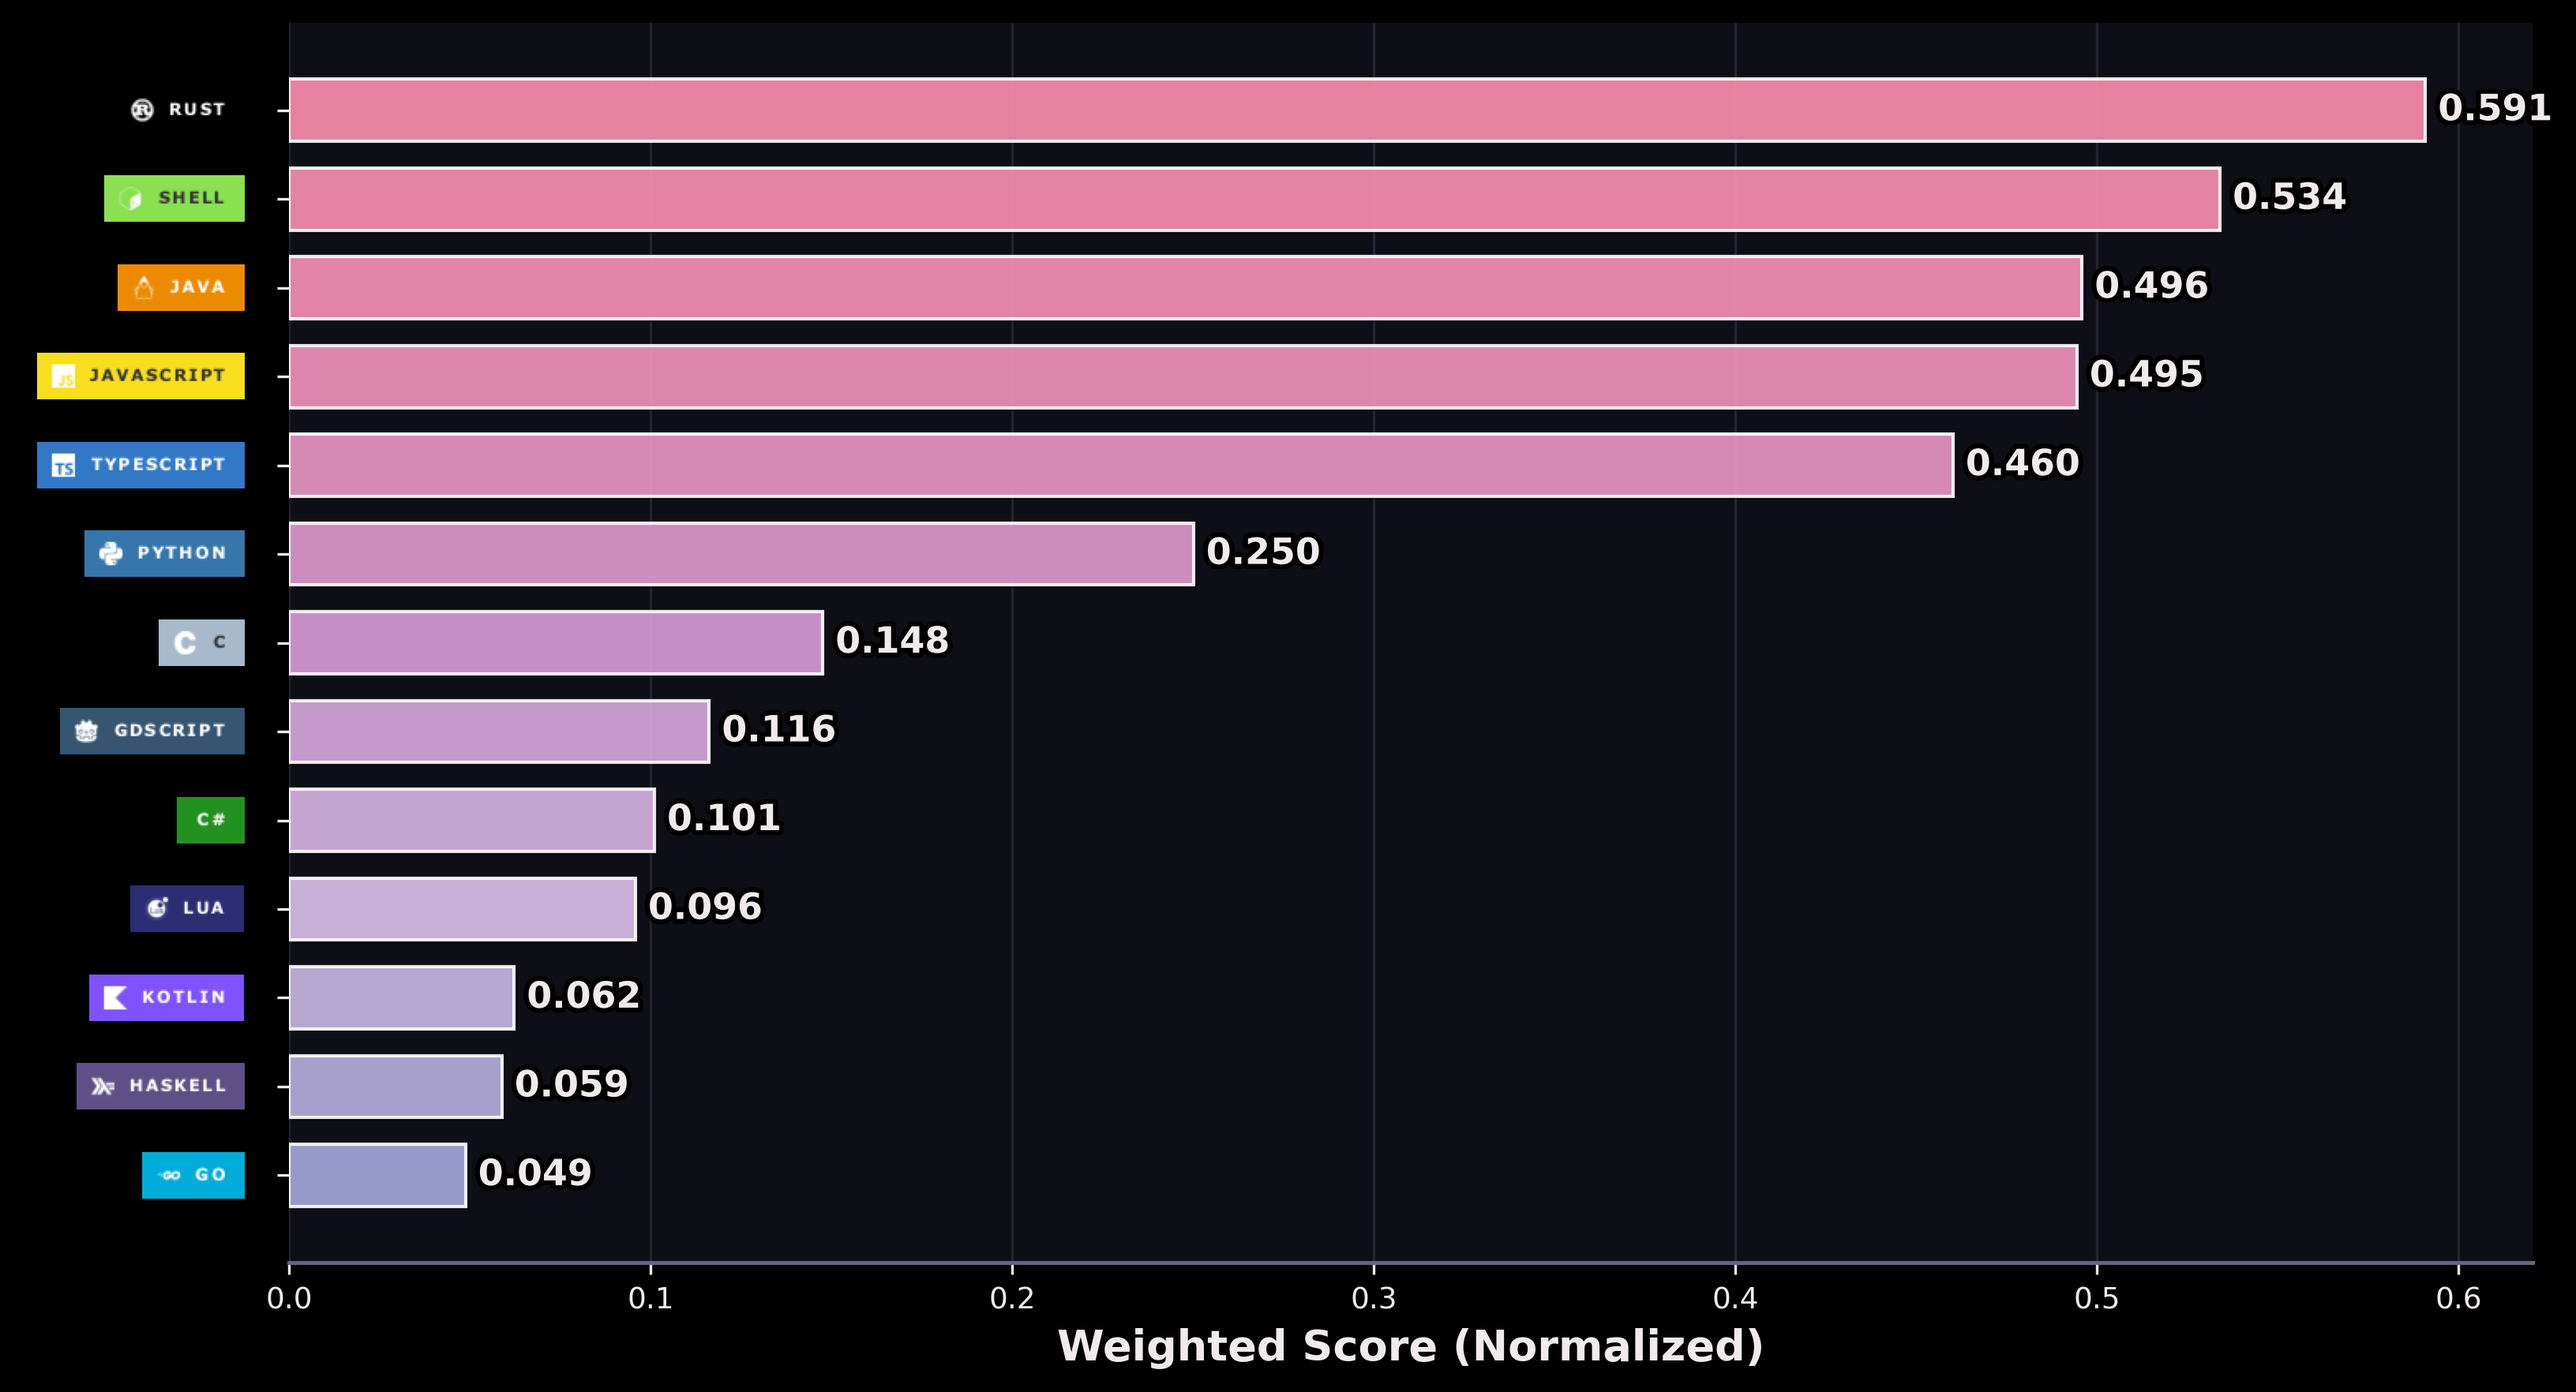
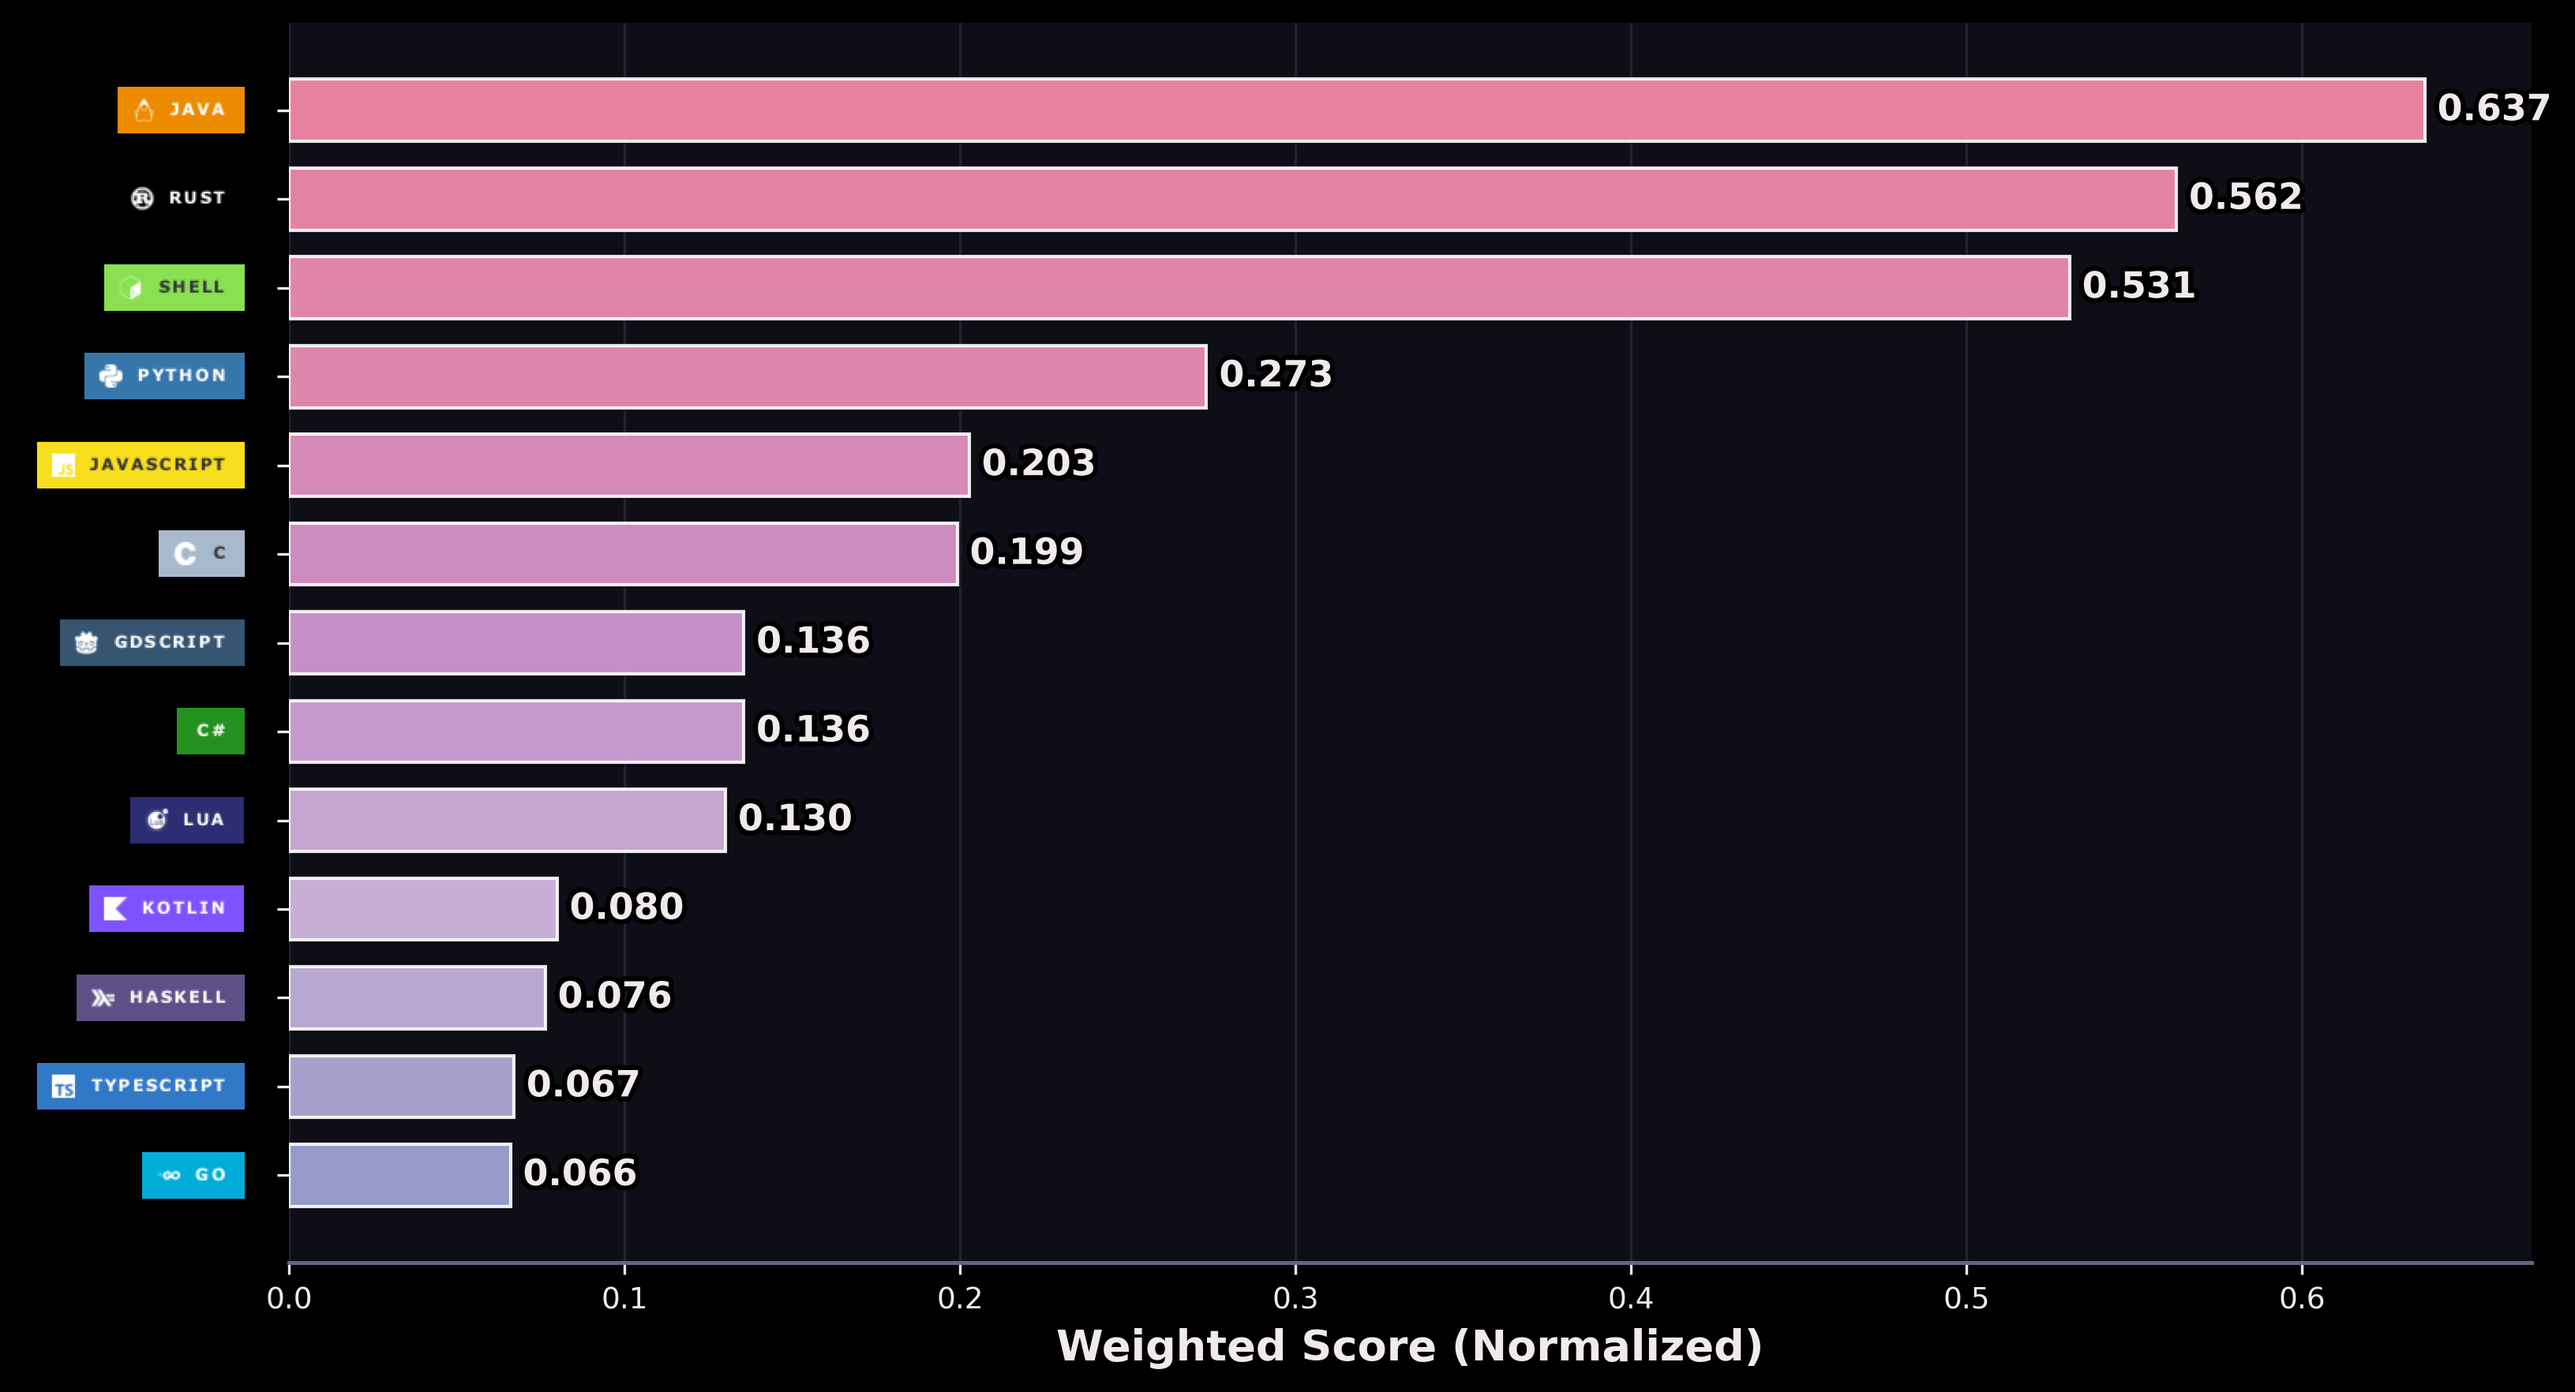
Update language statistics

diff --git a/README.md b/README.md
@@ -26,15 +26,15 @@
 
 |    | Language | Lines of code | Share |
 |:--:|:---------|----------:|:------|
-| 🥇 | Rust | 45.1K | 🌸🌸🌸🌸🌸🌸🌸🌸🌸🌸 37.9% |
-| 🥈 | TypeScript | 29.2K | 🌸🌸🌸🌸🌸🌸⬜⬜⬜⬜ 24.5% |
-| 🥉 | JavaScript | 15.9K | 🌸🌸🌸🌸⬜⬜⬜⬜⬜⬜ 13.4% |
-| 🌸 | Java | 11.9K | 🌸🌸🌸⬜⬜⬜⬜⬜⬜⬜ 10.0% |
-| 🌸 | GDScript | 6.4K | 🌸⬜⬜⬜⬜⬜⬜⬜⬜⬜ 5.4% |
-| 🌸 | Shell | 3.1K | 🌸⬜⬜⬜⬜⬜⬜⬜⬜⬜ 2.6% |
-| 🌸 | Python | 2.1K | 🌸⬜⬜⬜⬜⬜⬜⬜⬜⬜ 1.7% |
-| 🌸 | Kotlin | 1.5K | 🌸⬜⬜⬜⬜⬜⬜⬜⬜⬜ 1.3% |
-|    | other 🌱 | 3.9K | 🌸⬜⬜⬜⬜⬜⬜⬜⬜⬜ 3.3% |
+| 🥇 | Rust | 43.7K | 🌸🌸🌸🌸🌸🌸🌸🌸🌸🌸 55.1% |
+| 🥈 | Java | 11.9K | 🌸🌸🌸⬜⬜⬜⬜⬜⬜⬜ 15.0% |
+| 🥉 | JavaScript | 6.8K | 🌸🌸⬜⬜⬜⬜⬜⬜⬜⬜ 8.6% |
+| 🌸 | GDScript | 6.4K | 🌸⬜⬜⬜⬜⬜⬜⬜⬜⬜ 8.0% |
+| 🌸 | Shell | 2.7K | 🌸⬜⬜⬜⬜⬜⬜⬜⬜⬜ 3.4% |
+| 🌸 | Python | 2.1K | 🌸⬜⬜⬜⬜⬜⬜⬜⬜⬜ 2.6% |
+| 🌸 | Kotlin | 1.5K | 🌸⬜⬜⬜⬜⬜⬜⬜⬜⬜ 1.9% |
+| 🌸 | Haskell | 1.2K | 🌸⬜⬜⬜⬜⬜⬜⬜⬜⬜ 1.5% |
+|    | other 🌱 | 3.1K | 🌸⬜⬜⬜⬜⬜⬜⬜⬜⬜ 3.9% |
 <!-- ✿ languages:end ✿ -->
 
 ## 📫 Ping Me
